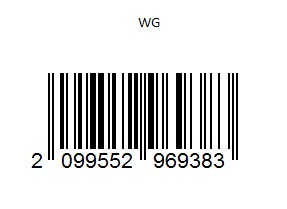
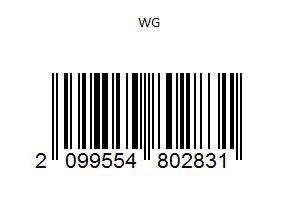
New Cumulus Card

Changed region(s): [[0.1115, 0.3445, 0.8641, 0.8038], [0.5017, 0.0861, 0.5296, 0.1148]]

diff --git a/client/templates/list_items/modal_cumulus.html b/client/templates/list_items/modal_cumulus.html
@@ -11,7 +11,7 @@
         <h4 class="modal-title">Cumulus Karte</h4>
       </div>
       <div class="modal-body">
-        <img src="img/cumulus.jpg" alt="Cumulus Code">
+        <img src="img/cumulus.jpg?v=1" alt="Cumulus Code">
       </div>
       <div class="modal-footer">
         <button type="button" class="btn btn-secondary" data-dismiss="modal">Schliessen</button>

diff --git a/client/templates/history/historyList.js b/client/templates/history/historyList.js
@@ -28,5 +28,6 @@ Template.historyList.events({
         return alert(error.reason);
       }
     });
+    showMessage( 'trash', 'Statistik zurückgesetzt.' );
   }
 });
